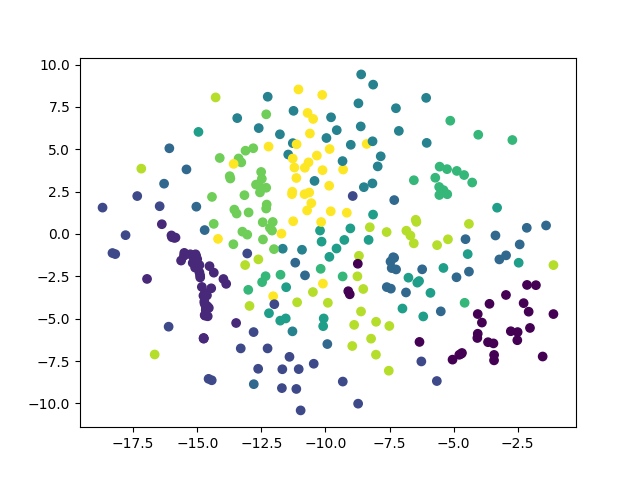
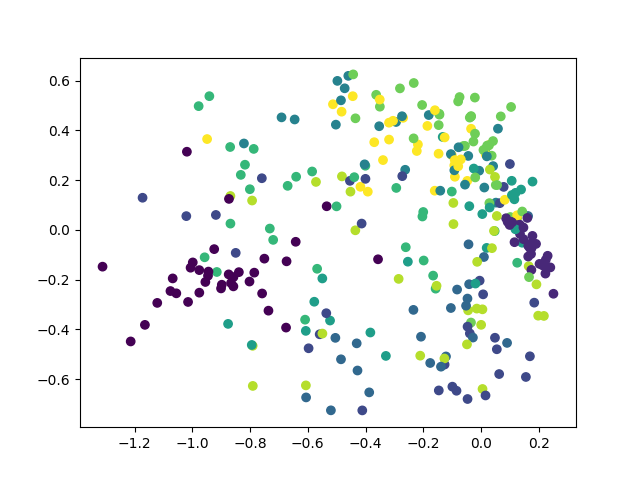
Tried some experiments.

diff --git a/parametric_tsne.py b/parametric_tsne.py
@@ -11,7 +11,7 @@ class ParametricTSNE:
     Please make sure to train the pretrainer model first.
     """
 
-    def __init__(self, layer_sizes: Iterable = (500, 500, 2000, 2), input_size: int = 784) -> None:
+    def __init__(self, layer_sizes: Iterable = (32, 64, 32, 2), input_size: int = 784) -> None:
         """
         Initializes the class by creating the layers used in pretraining and fine-tuning.
         :param layer_sizes: The number of layers to create, along with their sizes.
@@ -22,12 +22,17 @@ class ParametricTSNE:
         self.__encoder_layers = []
         self.__decoder_layers = []
         self.__encoder_layers.append(tf.keras.layers.Input(shape=self.__input_size))
-        for layer_size in layer_sizes:
+        for layer_size in layer_sizes[0:-1]:
             self.__encoder_layers.append(
                 tf.keras.layers.Dense(layer_size,
                                       activation=tf.keras.activations.relu,
                                       kernel_initializer=tf.keras.initializers.he_uniform(),
                                       bias_initializer=tf.constant_initializer(.0001)))
+        self.__encoder_layers.append(
+            tf.keras.layers.Dense(layer_sizes[-1],
+                                  activation=tf.keras.activations.linear,
+                                  kernel_initializer=tf.keras.initializers.he_uniform(),
+                                  bias_initializer=tf.constant_initializer(.0001)))
         for layer_size in list(reversed(layer_sizes[0:-1])):
             self.__decoder_layers.append(
                 tf.keras.layers.Dense(layer_size,
@@ -54,7 +59,7 @@ class ParametricTSNE:
         model = tf.keras.Model(inputs=inpt,
                                outputs=x,
                                name="parametric_tsne_pretrainer")
-        model.compile(optimizer="adam", loss='mse')
+        model.compile(optimizer="nadam", loss='mse')
         return model
 
     def tsne_model(self) -> tf.keras.Model:
@@ -67,9 +72,8 @@ class ParametricTSNE:
         x = inpt
         for encoder_layer in self.__encoder_layers[1:]:
             x = encoder_layer(x)
-        x.activation = tf.keras.activations.linear
         model = tf.keras.Model(inputs=inpt,
                                outputs=x,
                                name="parametric_tsne")
-        model.compile(optimizer="adam", loss=tsne_loss)
+        model.compile(optimizer="nadam", loss=tsne_loss)
         return model

diff --git a/compiled_main.py b/compiled_main.py
@@ -1,7 +1,9 @@
 import tensorflow as tf
+import tensorflow_datasets as tfds
 
 from compiled_data_processor import load_data, process_data
 from parametric_tsne import ParametricTSNE
+from vis_utils import show_images, show_scatter
 
 
 def train_and_save_model():
@@ -9,34 +11,46 @@ def train_and_save_model():
     Trains the model and saves it to disk.
     :return: None.
     """
-    ds_train, ds_val, ds_test = load_data()
-    ds_train_pretrain, ds_val_pretrain, _ = process_data(
-        ds_train, ds_val, ds_test, pretraining=True)
+    ds_train, ds_val, ds_test, ds_info = load_data()
+    ds_train_pretrain, ds_val_pretrain, ds_test_pretrain = process_data(
+        ds_train, ds_val, ds_test, ds_info, pretraining=True)
 
     ptsne = ParametricTSNE()
 
     pretrainer = ptsne.pretrainer_model()
 
     pretrainer.fit(ds_train_pretrain,
-                   epochs=300,
+                   epochs=30,
                    validation_data=ds_val_pretrain,
                    callbacks=[tf.keras.callbacks.EarlyStopping(
                        monitor='val_loss',
                        patience=5,
                        restore_best_weights=True)])
 
-    ds_train_tsne, ds_val_tsne, _ = process_data(
-        ds_train, ds_val, ds_test, pretraining=False)
+    images = pretrainer.predict(ds_test_pretrain)
+
+
+    ds_train_tsne, ds_val_tsne, ds_test_tsne = process_data(
+        ds_train, ds_val, ds_test, ds_info, pretraining=False)
 
     actual_model = ptsne.tsne_model()
 
+    labels = list(map(lambda x: x[1], tfds.as_numpy(ds_test)))[0:300]
+    tsne_coords = actual_model.predict(ds_test_tsne)
+    show_scatter(tsne_coords[0:300], labels, "tsne_scatter_no_fine")
+
     actual_model.fit(ds_train_tsne,
-                     epochs=300,
+                     epochs=30,
                      validation_data=ds_val_tsne,
                      callbacks=[tf.keras.callbacks.EarlyStopping(
                          monitor='val_loss',
-                         patience=10,
+                         patience=5,
                          restore_best_weights=True)])
+
+    tsne_coords = actual_model.predict(ds_test_tsne)
+
+    show_scatter(tsne_coords[0:300], labels, "tsne_scatter")
+    show_images(images[0:15], "blah")
 
 
 def main():

diff --git a/compiled_data_processor.py b/compiled_data_processor.py
@@ -6,24 +6,25 @@ import tensorflow_datasets as tfds
 from tsne_utils import estimate_high_d_conditional_of_neighbors, high_d_conditional_to_joint
 
 
-def load_data() -> Tuple[tf.data.Dataset, tf.data.Dataset, tf.data.Dataset]:
+def load_data() -> Tuple[tf.data.Dataset, tf.data.Dataset, tf.data.Dataset, tfds.core.DatasetInfo]:
     """
     Loads the mnist dataset.
     :return: The mnist dataset. Split into train, val, and test. Along with metadata.
     """
-    (ds_train, ds_val, ds_test) = tfds.load(
+    (ds_train, ds_val, ds_test), ds_info = tfds.load(
         'mnist',
         split=['train[:75%]', 'train[:25%]', 'test'],
         as_supervised=True,
-        with_info=True,
+        with_info=True
     )
-    return ds_train, ds_val, ds_test
+    return ds_train, ds_val, ds_test, ds_info
 
 
 def process_data(
         ds_train: tf.data.Dataset,
         ds_val: tf.data.Dataset,
         ds_test: tf.data.Dataset,
+        ds_info,
         pretraining: bool,
         batch_size: int = 32) -> Tuple[tf.data.Dataset, tf.data.Dataset, tf.data.Dataset]:
     """
@@ -41,11 +42,13 @@ def process_data(
     if pretraining:
         map_fnc = process_examples_for_pretraining
 
-    for ds in (ds_train, ds_val, ds_test):
+    for idx, ds in enumerate((ds_train, ds_val, ds_test)):
+        ds = ds.batch(batch_size, drop_remainder=True)
         ds = ds.map(
             map_fnc, num_parallel_calls=tf.data.experimental.AUTOTUNE)
-        ds = ds.batch(batch_size, drop_remainder=True)
         ds = ds.cache()
+        if idx == 0:
+            ds = ds.shuffle(ds_info.splits['train[:75%]'].num_examples)
         ds = ds.prefetch(tf.data.experimental.AUTOTUNE)
         transformed_datasets.append(ds)
     return transformed_datasets[0], transformed_datasets[1], transformed_datasets[2]

diff --git a/eager_main.py b/eager_main.py
@@ -8,7 +8,7 @@ from eager_data_processor import DATA_NAME
 from restricted_boltzmann_machine import RBM
 from tsne_utils import estimate_low_d_joint_of_neighbors, estimate_high_d_conditional_of_neighbors, \
     high_d_conditional_to_joint
-from vis_utils import show_scatters
+from vis_utils import show_scatter
 
 MODEL_NAME: str = "ptsne"
 
@@ -112,7 +112,7 @@ def train_and_save_model():
         return low_d_representation
 
     low_d_representation = train()
-    show_scatters(low_d_representation, labels_train, "tsne_scatter")
+    show_scatter(low_d_representation, labels_train, "tsne_scatter_real")
 
 
 def main():

diff --git a/vis_utils.py b/vis_utils.py
@@ -2,7 +2,7 @@ import matplotlib.pyplot as plt
 import numpy as np
 
 
-def show_scatters(projections: np.array, labels, name: str) -> None:
+def show_scatter(projections: np.array, labels, name: str) -> None:
     """
     Plots a projection scatter plot.
     :param projections: The projections to plot.
